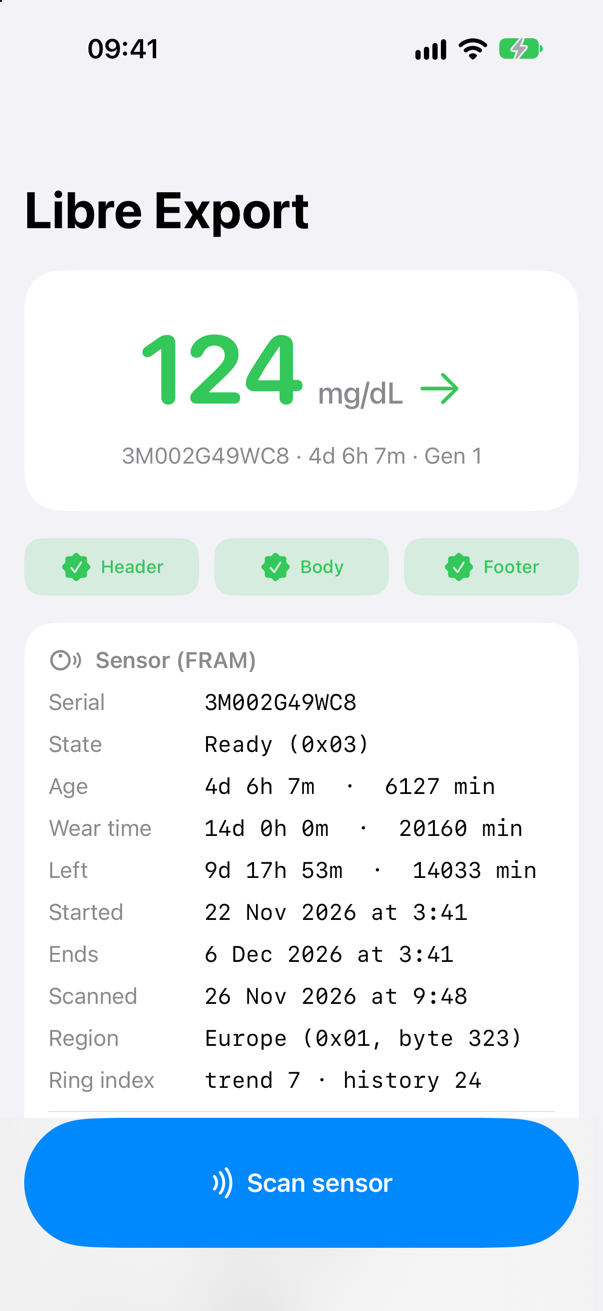
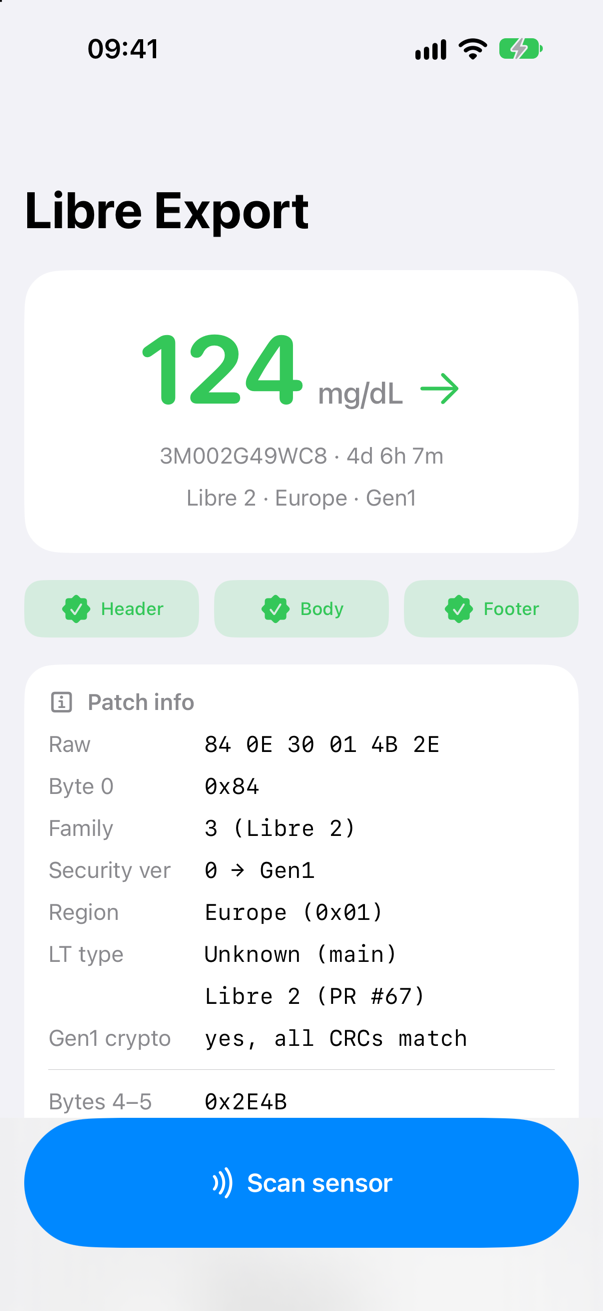
Patch info for verifying LibreTransmitter#67
Every scan now shows the same summary under the reading (type, region,
generation from the patch info). The Patch info card moves up under the
reading and shows byte 0, family, security version, region, the sensor
type LibreTransmitter gives today and with LoopKit/LibreTransmitter#67
(0x84 and the first-gen EU fallback), and whether the FRAM decrypts
with the first-generation scheme (all CRCs match), which the PR could
not confirm without a real 303 sensor. The FRAM region row is labelled
as such so the two regions can't be mixed up.

Export: sensor_type_pr67 and decrypts_gen1. The demo sensor is now a
303 one (84 0E 30 01); README gets a section on checking a new batch
and the new screenshot.

diff --git a/Sources/ContentView.swift b/Sources/ContentView.swift
@@ -42,7 +42,8 @@ func makeExport(_ r: ScanResult) -> Export {
         tag["total_blocks"] = si.totalBlocks; tag["ic_reference"] = si.icReference
     }
     if let e = r.tag.systemInfoError { tag["system_info_error"] = e }
-    var patchDecoded: [String: Any] = ["sensor_type": patch.sensorType, "generation": patch.generation]
+    var patchDecoded: [String: Any] = ["sensor_type": patch.sensorType, "sensor_type_pr67": patch.sensorTypePR67,
+                                       "generation": patch.generation]
     patchDecoded["family"] = patch.family
     patchDecoded["security"] = patch.securityNibble
     patchDecoded["region_code"] = patch.regionCode
@@ -62,6 +63,7 @@ func makeExport(_ r: ScanResult) -> Export {
         "trend_records": records(parsed?.trend ?? []),
         "history_records": records(parsed?.history ?? []),
     ]
+    if !r.framEncrypted.isEmpty { payload["decrypts_gen1"] = parsed?.crcOK ?? false }
     if let p = parsed {
         payload["sensor_state"] = p.state
         payload["max_minutes_wear"] = p.maxMinutesWear
@@ -95,17 +97,18 @@ struct ContentView: View {
                     HeroCard(export: export, scanning: nfc.scanning, status: nfc.status)
                     if let err = nfc.errorText { ErrorBanner(text: err) }
                     if let e = export {
-                        if let p = e.parsed {
-                            CRCRow(p: p)
-                            DetailCard(p: p, scannedAt: e.result.scannedAt)
-                            TrendCard(trend: p.trend)
-                            HistoryCard(history: p.history, scannedAt: e.result.scannedAt)
-                        } else {
+                        if let p = e.parsed { CRCRow(p: p) } else {
                             InfoCard(text: e.generation == 2
                                 ? "Gen2 sensor: captured UID + patch info. The FRAM needs the authenticated read, so no values here — the export still carries the identity."
                                 : "Captured, but the FRAM did not decrypt/parse. The raw bytes are in the export for offline analysis.")
                         }
-                        PatchInfoCard(patch: e.patch, serial: e.serial)
+                        PatchInfoCard(patch: e.patch, serial: e.serial, framRead: !e.result.framEncrypted.isEmpty,
+                                      parsed: e.parsed)
+                        if let p = e.parsed {
+                            DetailCard(p: p, scannedAt: e.result.scannedAt)
+                            TrendCard(trend: p.trend)
+                            HistoryCard(history: p.history, scannedAt: e.result.scannedAt)
+                        }
                         TagCard(uid: e.result.uid, tag: e.result.tag)
                         RawCard(e: e)
                         ExportCard(base64: e.base64, showShare: $showShare)
@@ -140,14 +143,14 @@ private struct HeroCard: View {
                     Text("mg/dL").font(.title3.weight(.medium)).foregroundStyle(.secondary)
                     Image(systemName: arrow(for: p.trend)).font(.title).foregroundStyle(glucoseColor(g))
                 }
-                Text("\(p.serial) · \(p.ageHuman) · Gen \(p.generation)")
+                Text("\(p.serial) · \(p.ageHuman)")
                     .font(.subheadline).foregroundStyle(.secondary)
+                Text(e.patch.summary).font(.subheadline).foregroundStyle(.secondary)
             } else if let e = export, !scanning {
                 Image(systemName: "sensor.tag.radiowaves.forward.fill")
                     .font(.system(size: 54)).foregroundStyle(.tint)
                 Text(e.serial).font(.title2.weight(.semibold).monospaced())
-                Text("\(e.patch.sensorType) · \(e.patch.generationLabel)")
-                    .font(.subheadline).foregroundStyle(.secondary)
+                Text(e.patch.summary).font(.subheadline).foregroundStyle(.secondary)
                 if let p = e.parsed {
                     Text("\(SensorLabels.state(p.state)) · \(p.ageHuman)")
                         .font(.footnote).foregroundStyle(.secondary)
@@ -216,7 +219,7 @@ private struct DetailCard: View {
             KV("Started", dateTime(scannedAt.addingTimeInterval(-60 * Double(p.minutesSinceStart))))
             KV("Ends", dateTime(scannedAt.addingTimeInterval(60 * Double(p.minutesLeft))))
             KV("Scanned", dateTime(scannedAt))
-            KV("Region", "\(SensorLabels.region(p.regionByte)) (\(Hex.byte(p.regionByte)), byte 323)")
+            KV("FRAM region", "\(SensorLabels.region(p.regionByte)) (\(Hex.byte(p.regionByte)), byte 323)")
             KV("Ring index", "trend \(p.nextTrendBlock) · history \(p.nextHistoryBlock)")
             Divider().padding(.vertical, 2)
             KV("i1 · i2", "\(p.i1) · \(p.i2)")
@@ -234,20 +237,28 @@ private struct DetailCard: View {
 }
 
 private struct PatchInfoCard: View {
-    let patch: PatchInfoDecoded; let serial: String
+    let patch: PatchInfoDecoded; let serial: String; let framRead: Bool; let parsed: ParsedSensor?
     var body: some View {
         Card(title: "Patch info", icon: "info.square") {
             KV("Raw", patch.raw.isEmpty ? "–" : Hex.string(patch.raw, separator: " "))
-            KV("Bytes", "\(patch.raw.count)")
-            KV("Type", patch.sensorType)
-            KV("Generation", patch.generationLabel)
-            if let f = patch.family, let sec = patch.securityNibble {
-                KV("Family", "\(f) · security \(sec)")
-            }
-            if let r = patch.regionCode { KV("Region", "\(SensorLabels.region(r)) (\(Hex.byte(r)))") }
+            if let b0 = patch.raw.first { KV("Byte 0", Hex.byte(Int(b0))) }
+            if let f = patch.family { KV("Family", "\(f) (\(patch.familyName))") }
+            if let sec = patch.securityNibble { KV("Security ver", "\(sec) → \(patch.generationShort)") }
+            if let r = patch.regionCode { KV("Region", "\(patch.regionName) (\(Hex.byte(r)))") }
+            KV("LT type", "\(patch.sensorType) (main)")
+            KV("", "\(patch.sensorTypePR67) (PR #67)")
+            KV("Gen1 crypto", gen1Crypto)
+            Divider().padding(.vertical, 2)
             if let w = patch.cryptoWord { KV("Bytes 4–5", Hex.word(w)) }
             KV("Serial", serial)
         }
+    }
+    /// Whether the FRAM decrypted with the first-generation Libre 2 scheme LibreTransmitter uses:
+    /// all three CRCs only match after a correct decryption.
+    private var gen1Crypto: String {
+        guard framRead else { return patch.generation == 2 ? "not read (Gen2)" : "not read" }
+        guard let p = parsed else { return "did not parse" }
+        return p.crcOK ? "yes, all CRCs match" : "no, CRCs don't match"
     }
 }
 

diff --git a/Sources/SensorMetadata.swift b/Sources/SensorMetadata.swift
@@ -32,7 +32,7 @@ enum Hex {
 struct PatchInfoDecoded {
     let raw: [UInt8]
 
-    /// LibreTransmitter `SensorType(patchInfo:)`.
+    /// LibreTransmitter `SensorType(patchInfo:)` on `main`, before LoopKit/LibreTransmitter#67.
     var sensorType: String {
         guard let b0 = raw.first else { return "Unknown" }
         switch b0 {
@@ -51,14 +51,49 @@ struct PatchInfoDecoded {
         }
     }
 
+    /// The same with LoopKit/LibreTransmitter#67: byte 0 `0x84` is Libre 2, and an unlisted
+    /// byte 0 is Libre 2 when the rest says first-generation Libre 2 EU.
+    var sensorTypePR67: String {
+        guard let b0 = raw.first else { return "Unknown" }
+        if b0 == 0x84 { return "Libre 2" }
+        let listed = [0xDF, 0xA2, 0xE5, 0xE6, 0x70, 0xC5, 0x9D, 0xC6, 0x7F, 0x76].contains(Int(b0))
+        if !listed, raw.count != 24, isFirstGenerationLibre2EU { return "Libre 2" }
+        return sensorType
+    }
+
+    /// PR #67's fallback rule: 6 bytes, family 3, security version below 9, region 0x01.
+    var isFirstGenerationLibre2EU: Bool {
+        raw.count == 6 && raw[2] >> 4 == 3 && raw[2] & 0x0F < 9 && raw[3] == 0x01
+    }
+
     /// High nibble of byte 2 (product family; also the serial number's first digit).
     var family: Int? { raw.count >= 3 ? Int(raw[2] >> 4) : nil }
-    /// Low nibble of byte 2 (9 or more on a family-3 patch = Gen2).
+    var familyName: String {
+        switch family {
+        case 3: return "Libre 2"
+        case nil: return "–"
+        default: return "other"
+        }
+    }
+    /// Low nibble of byte 2: the security version (9 or more on a family-3 patch = Gen2).
     var securityNibble: Int? { raw.count >= 3 ? Int(raw[2] & 0x0F) : nil }
     var generation: Int { Libre2FRAM.securityGeneration(raw) }
     var regionCode: Int? { raw.count >= 4 ? Int(raw[3]) : nil }
     /// Bytes 5..4, the word the Libre 2 FRAM decryption uses.
     var cryptoWord: Int? { raw.count >= 6 ? Int(raw[5]) << 8 | Int(raw[4]) : nil }
+
+    var regionName: String { regionCode.map(SensorLabels.region) ?? "–" }
+
+    /// One line for the top of the screen, the same for every scan.
+    var summary: String { "\(sensorTypePR67) · \(regionName) · \(generationShort)" }
+
+    var generationShort: String {
+        switch generation {
+        case 2: return "Gen2"
+        case 1: return "Gen1"
+        default: return "other gen"
+        }
+    }
 
     var generationLabel: String {
         switch generation {

diff --git a/Sources/DemoScan.swift b/Sources/DemoScan.swift
@@ -11,7 +11,7 @@ enum DemoScan {
         let uid: [UInt8] = [0x5A, 0x3C, 0x91, 0x27, 0x00, 0xA0, 0x07, 0xE0]
         return ScanResult(
             uid: uid,
-            patchInfo: [0x9D, 0x08, 0x30, 0x01, 0x4B, 0x2E],
+            patchInfo: [0x84, 0x0E, 0x30, 0x01, 0x4B, 0x2E],  // a "303" Libre 2 EU, as in LibreTransmitter#67
             framEncrypted: bytes(framHex),
             tag: TagInfo(icManufacturerCode: 0x07, icSerialNumber: Array(uid[0..<6].reversed()),
                          systemInfo: nil, systemInfoError: "demo data"),

diff --git a/README.md b/README.md
@@ -18,8 +18,12 @@ Not a medical device; for your own data research only.
     CRC (stored vs computed).
   - **Trend:** the last 16 minutes, raw values, temperature (°C) and mg/dL.
   - **History:** the last 8 hours at 15-minute steps, with time, °C and mg/dL.
-  - **Patch info:** the raw bytes, sensor type, generation, family/security
-    nibbles, region and the decryption word (bytes 4–5).
+  - **Patch info** (right under the reading): the raw bytes, byte 0, family,
+    security version and generation, region, the sensor type LibreTransmitter
+    gives it today and with [LibreTransmitter#67](https://github.com/LoopKit/LibreTransmitter/pull/67),
+    whether the FRAM decrypts with the first-generation scheme (all CRCs match),
+    the decryption word (bytes 4–5) and the serial. The line under the reading
+    sums it up for every scan, e.g. *Libre 2 · Europe · Gen1*.
   - **NFC tag:** UID, IC manufacturer, IC serial, and ISO 15693 system info
     (block count/size, IC reference, DSFID/AFI) when the sensor answers it.
   - **Raw bytes:** the FRAM as read and decrypted, 8 bytes per row, selectable.
@@ -98,6 +102,23 @@ vibrates. Everything the sensor revealed is shown below the reading; the
 The export contains your sensor's identity (UID, serial) and your glucose data.
 Only share it with people you'd share that with.
 
+## Checking a new sensor batch
+Made for confirming [LibreTransmitter#67](https://github.com/LoopKit/LibreTransmitter/pull/67)
+(EU sensors with serials starting with 303). Scan the sensor and read the
+**Patch info** card:
+
+- **Raw** starts `84 0E 30 01`, **Family** 3, **Security ver** 0 → Gen1, **Region** Europe.
+- **LT type**: *Unknown (main)* and *Libre 2 (PR #67)*, i.e. today's
+  LibreTransmitter rejects it and the PR accepts it.
+- **Gen1 crypto: yes, all CRCs match** is what the PR couldn't test: the batch still
+  uses the first-generation encryption LibreTransmitter decrypts. The app decrypts by
+  family, not by LibreTransmitter's type list, so it tries even when *main* says
+  Unknown. *No, CRCs don't match* would mean the PR alone won't make these sensors work.
+- Compare the glucose with the Libre app or reader.
+
+Share the export with the PR (it carries all of this), keeping in mind it includes
+the sensor's UID and serial.
+
 ## Export format (`libre2-fram-export-v1`)
 Base64 of a JSON object: `uid`, `patch_info`, `generation`, `fram_encrypted_hex`,
 `fram_decrypted_hex`, `minutes_since_start`, `calibration{i1..i6}`, and
@@ -106,7 +127,8 @@ The `trend_records` feed directly into the independent-implementation harness.
 
 Added later, same format name (readers of the fields above are unaffected):
 `scanned_at` (time of the FRAM read), `serial`,
-`patch_info_decoded{sensor_type, generation, family, security, region_code, crypto_word}`,
+`patch_info_decoded{sensor_type, sensor_type_pr67, generation, family, security, region_code, crypto_word}`,
+`decrypts_gen1` (all CRCs match after first-generation decryption; only when the FRAM was read),
 `tag{ic_manufacturer_code, ic_serial_number, dsfid, afi, block_size, total_blocks, ic_reference | system_info_error}`,
 `sensor_state`, `max_minutes_wear`, `next_trend_block`, `next_history_block`,
 `fram_region`, `started_at`, `ends_at`, `crc{header|body|footer: {stored, computed}}`,
@@ -116,7 +138,8 @@ Added later, same format name (readers of the fields above are unaffected):
 ## Notes
 - **Demo mode:** the Simulator has no NFC. A Debug build launched with the
   argument `-demo` (Xcode: Product → Scheme → Edit Scheme → Run → Arguments)
-  shows a made-up sensor, as in the screenshot above.
+  shows a made-up sensor (patch info `84 0E 30 01`, a 303 sensor), as in the
+  screenshot above.
 - **Changing the project:** `project.yml` is the source of the Xcode project;
   after editing it run `brew install xcodegen && xcodegen`.
 - **Gen2 sensors:** the app captures UID + patch info; the FRAM needs the
